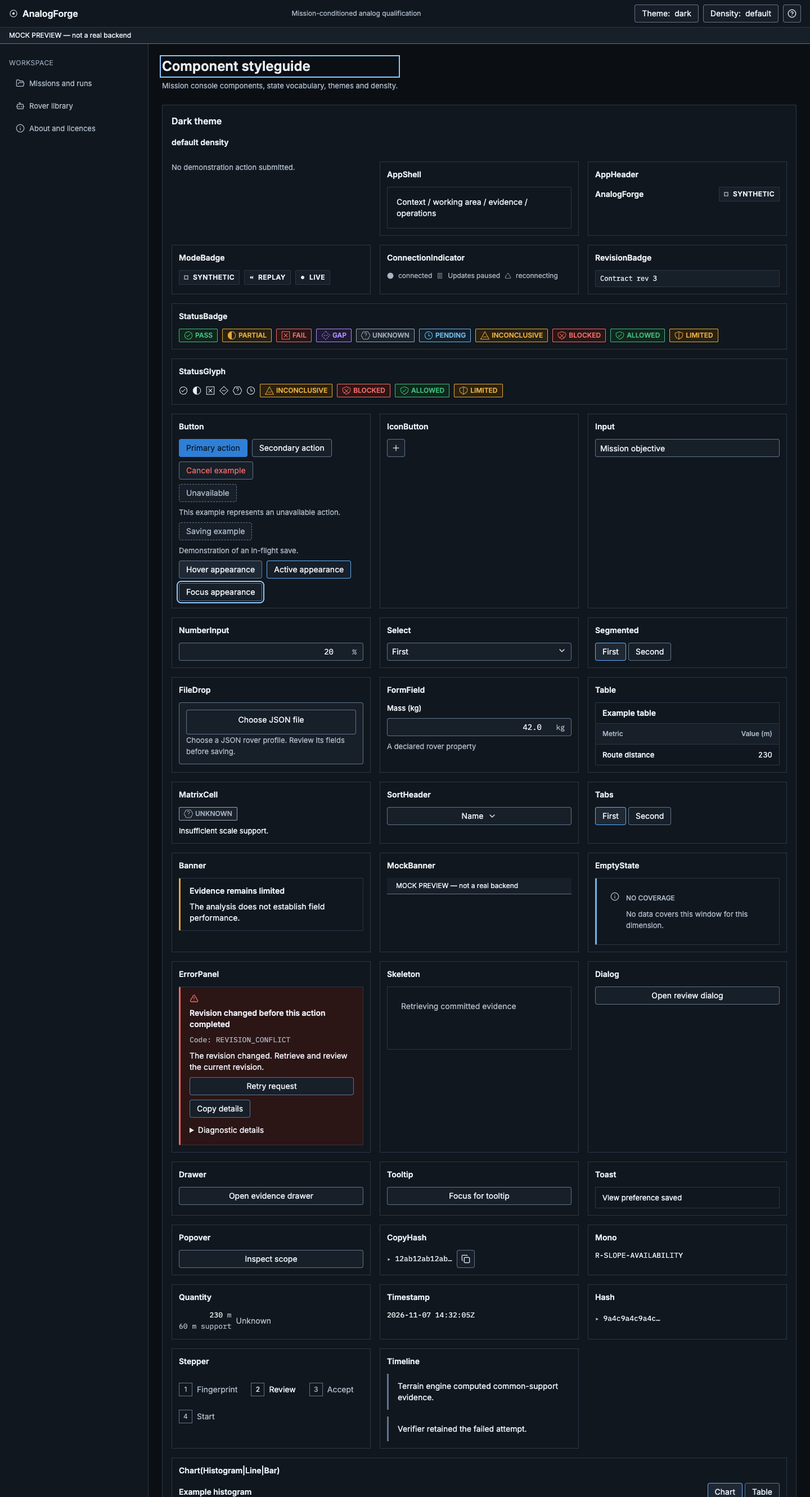
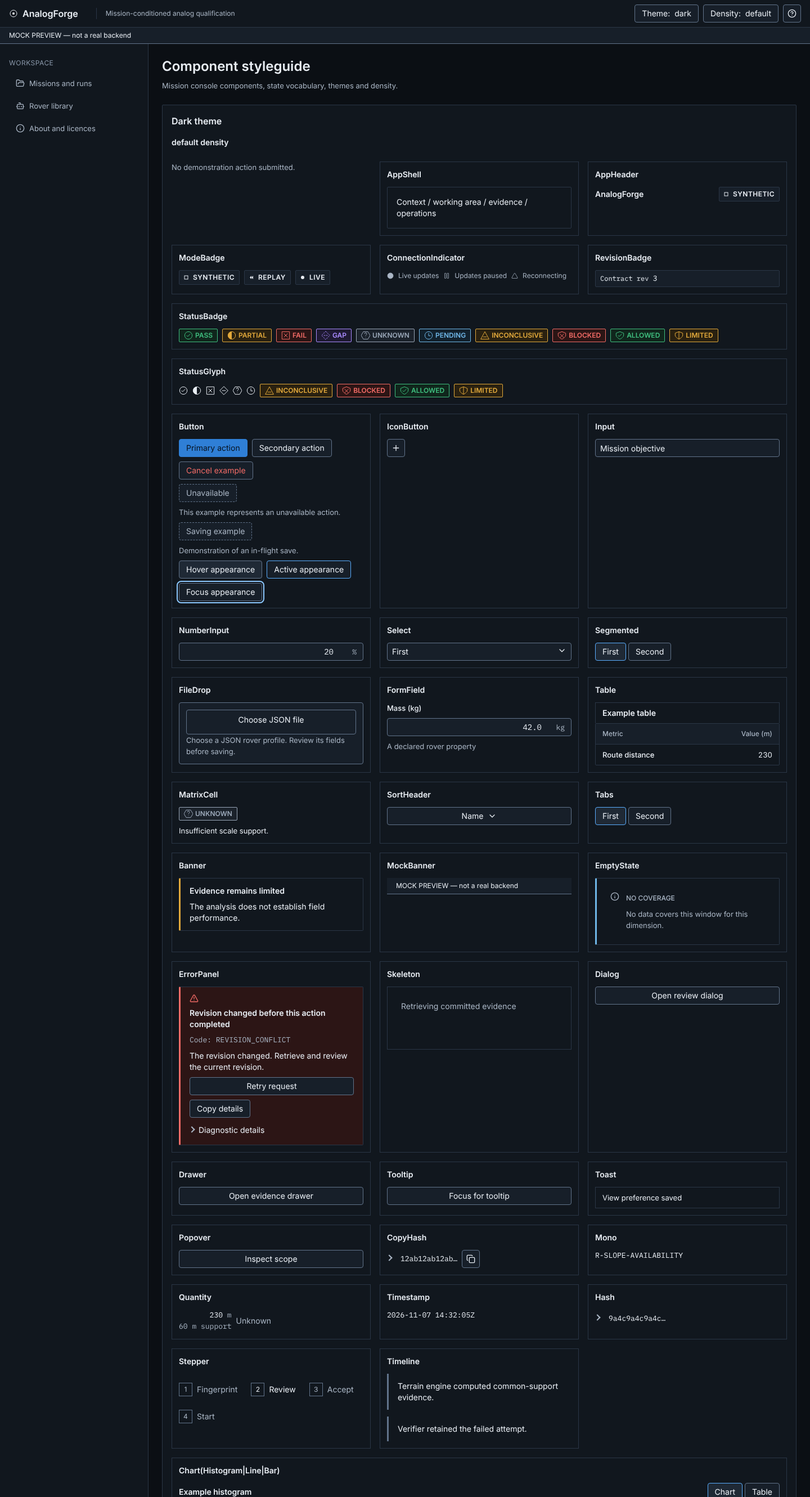
Polish the mission console and harden flaky keyboard journeys
Visual (architecture 41), from a screenshot review of every screen in dark/light at 1440 and 390:
- one thin chevron for every disclosure instead of '+'/'-' text and native triangles
- run header: fixed full-width status row on wide screens (mode, live/final stream, contract rev + digest,
  rover rev, run rev) instead of a half-collapsed details box; it can no longer reflow when the
  connection label changes (fixes a 0.61 CLS on the passport found by the visual audit)
- plain-language connection labels (Live updates, Reconnecting, Resynchronizing, Final - stream closed)
- design-system checkboxes (24 px target, accent fill with check) instead of empty squares
- product line anchored beside the wordmark; no focus box on programmatically focused page titles
- a run blocked by SCIENTIFIC_CLAIM_REJECTED explains itself and offers no retry that cannot succeed
  (BlockedDependencies + unit test); matches the platform rule that RETRY is not allowed for it

Tests:
- J09/J09b: enable file-chooser interception before keyboard activation and assert document focus
  (J09b failed ~50% even alone; now 8/8 repeated)
- test browser launched with --enable-unsafe-swiftshader so this GPU-less Chromium's WebGL deprecation
  notice is not reported as an app console warning (C12)
- view-preference storage in two test helpers carries the allowed marker
- design-review styleguide captures regenerated

Claude-Session: https://claude.ai/code/session_018jitcJWpqyrJB3zq7RUfyU

diff --git a/analogforge/apps/web/src/features/runs/RunShell.tsx b/analogforge/apps/web/src/features/runs/RunShell.tsx
@@ -7,7 +7,7 @@ import { useApi } from '../../api/hooks/useApi';
 import { useRunStream } from '../../api/hooks/useRunStream';
 import { queryKeys } from '../../api/queryKeys';
 import { useWorkspace } from '../../app/WorkspaceContext';
-import { Button,CopyHash,IconButton,ConnectionIndicator,ErrorPanel,ModeBadge,ResultBadge,RevisionBadge,Skeleton,StatusBadge } from '../../components/ui';
+import { Banner,Button,CopyHash,IconButton,ConnectionIndicator,ErrorPanel,ModeBadge,ResultBadge,RevisionBadge,Skeleton,StatusBadge } from '../../components/ui';
 import { EvidenceDrawer } from '../../components/evidence/EvidenceDrawer';
 import { Operations } from '../operations/Operations';
 import { RunContext,type Schema } from './RunContext';
@@ -22,5 +22,9 @@ export function RunShell(){const {runId}=useParams();const workspace=useWorkspac
  if(contextError)return <section className="page-stack"><h1 tabIndex={-1}>Investigation unavailable</h1><ErrorPanel error={contextError} onRetry={()=>{void cache.invalidateQueries({queryKey:queryKeys.workspace(workspace)});}}/></section>;
  // Commit the context together so candidate columns and accepted rows never flash through incomplete geometry.
  if(!snapshot.data||!contract.data||(snapshot.data.candidate_ids.length>0&&!candidates.data)||(snapshot.data.qualification_ids.length>0&&!qualifications.data)||(!!snapshot.data.rover_revision_id&&!rover.data)||(resultIds.length>0&&results.isPending))return <div className="run-loading"><Skeleton label="Retrieving accepted contract, candidates and qualification receipts"/></div>;
- const value=snapshot.data;const orderedResults=[...(results.data??[])].filter(result=>result.run_id===value.run_id&&result.workspace_id===workspace);const latestResult=orderedResults.at(-1);const runActions=<div className="actions run-actions">{!['COMPLETED','CANCELLED','FAILED'].includes(value.state)&&<Button variant="danger" data-testid="btn-cancel-run" disabled={pending} disabledReason="Wait for the current command acknowledgement before cancelling." onClick={()=>{void action({action_type:'CANCEL',expected_revision:value.revision,payload:{}}).catch(()=>undefined);}}>Cancel run</Button>}{value.blocked_dependencies.map(dependency=><Button key={dependency} data-testid="btn-retry-dependency" data-dependency-id={dependency} disabled={pending} disabledReason="The dependency retry command is awaiting acknowledgement." onClick={()=>{void action({action_type:'RETRY',expected_revision:value.revision,payload:{dependency_id:dependency}}).catch(()=>undefined);}}>Retry {dependency}</Button>)}</div>;return <RunContext.Provider value={{snapshot:value,contract:contract.data,candidates:candidates.data?.items??[],qualifications:qualifications.data?.items??[],action,showEvidence:setEvidence,pending}}><div className="run-layout"><section className="run-state" role="status" aria-live="polite" data-testid="run-state-banner" data-state={value.state}><div className="run-lifecycle"><span className="helper">Lifecycle</span><strong>{value.state.toLowerCase().replaceAll('_',' ').replace(/^./,letter=>letter.toUpperCase())}</strong>{wideContext&&<p className="helper">{contract.data.name}</p>}</div><div className="run-science" aria-label="Scientific outcome"><span className="helper">Latest modeled test</span>{latestResult?<ResultBadge outcome={latestResult.outcome}/>:!value.rover_revision_id?<span className="revision-badge">Not run</span>:<StatusBadge status={results.isError?'UNKNOWN':'PENDING'}/>}{wideContext&&<span className="helper">{latestResult?`${orderedResults.length} committed result${orderedResults.length===1?'':'s'}`:!value.rover_revision_id?'Site qualification only · no rover supplied':results.isError?'Result unavailable':resultIds.length?'Retrieving committed result':'No result committed'}</span>}</div><details className="run-metadata" open={wideContext}><summary><ModeBadge mode={value.mode}/><span>Run context</span></summary><div className="header-cluster">{!wideContext&&<p className="helper context-run-description">{contract.data.name} · {latestResult?`${orderedResults.length} committed result${orderedResults.length===1?'':'s'}`:!value.rover_revision_id?'Site qualification only · no rover supplied':results.isError?'Result unavailable':resultIds.length?'Retrieving committed result':'No result committed'}</p>}<ConnectionIndicator connection={connection==='connecting'?'reconnecting':connection}/><span className="run-contract-reference" role="group" aria-label="Pinned contract revision and digest"><RevisionBadge label="Contract" revision={contract.data.revision}/><CopyHash value={contract.data.content_sha256} kind="contract" compact/></span>{rover.data?<RevisionBadge label={`Rover ${rover.data.name}`} revision={rover.data.revision}/>:<span className="revision-badge">No rover supplied</span>}<RevisionBadge label="Run" revision={value.revision}/>{mobileContext&&<p className="helper">Committed event cursor {value.last_event_seq} · {value.mode} evidence</p>}{mobileContext&&runActions}<nav className="run-workspace-links" aria-label="Workspace navigation"><NavLink to="/">Missions</NavLink><NavLink to="/rovers">Rovers</NavLink><NavLink to="/about">About</NavLink></nav></div></details>{!mobileContext&&runActions}{!wideContext&&<div className="run-pinned-identity"><span>{contract.data.name}</span><span>Contract rev {contract.data.revision} · {rover.data?`Rover ${rover.data.name} rev ${rover.data.revision}`:'No rover supplied'} · Run rev {value.revision}</span></div>}</section><div className="run-nav-strip"><span className="run-nav-current">View: <strong>{tab==='test-lab'?'Test lab':tab[0]!.toUpperCase()+tab.slice(1)}</strong></span><IconButton className="run-nav-arrow" label="Scroll to previous investigation views" onClick={()=>{const nav=document.querySelector('.run-tabs');if(nav)nav.scrollBy({left:-nav.clientWidth,behavior:'instant'});}}><ChevronLeft size={16}/></IconButton><nav className="run-tabs" aria-label="Investigation views — scroll horizontally for all tabs">{runTabs.map(name=><NavLink key={name} data-testid="run-nav-tab" data-tab={name} to={`/runs/${runId}/${name}`}>{name==='test-lab'?'Test lab':name[0]!.toUpperCase()+name.slice(1)}</NavLink>)}</nav><IconButton className="run-nav-arrow" label="Scroll to more investigation views" onClick={()=>{const nav=document.querySelector('.run-tabs');if(nav)nav.scrollBy({left:nav.clientWidth,behavior:'instant'});}}><ChevronRight size={16}/></IconButton></div><div className="run-working-area" role="region" aria-label="Investigation working area">{error!=null&&<ErrorPanel error={error} onRetry={()=>{setError(null);void snapshot.refetch();}}/>}<Outlet/></div><div className="operations-bar"><span className="helper">Committed event cursor <span className="mono">{value.last_event_seq}</span> · {value.mode} evidence</span><div className="actions"><div id="run-primary-action" className="run-primary-action" data-region="primary-run-action"/><Button onClick={()=>setOperations(true)}>Open operations</Button><Button disabled={!qualifications.data?.items[0]?.evidence_ids[0]} disabledReason="No qualification evidence receipt has committed yet." onClick={()=>setEvidence(qualifications.data?.items[0]?.evidence_ids[0]??null)}>Open evidence</Button></div></div><EvidenceDrawer id={evidence} onClose={()=>setEvidence(null)} linkedRequirements={(qualifications.data?.items??[]).filter(row=>evidence&&row.evidence_ids.includes(evidence)).map(row=>({requirementId:row.requirement_id,status:row.status}))}/><Operations events={events.filter(event=>event.run_id===value.run_id)} open={operations} onOpenChange={setOperations} onEvidence={setEvidence}/></div></RunContext.Provider>;
+ const value=snapshot.data;const orderedResults=[...(results.data??[])].filter(result=>result.run_id===value.run_id&&result.workspace_id===workspace);const latestResult=orderedResults.at(-1);const runActions=<div className="actions run-actions">{!['COMPLETED','CANCELLED','FAILED'].includes(value.state)&&<Button variant="danger" data-testid="btn-cancel-run" disabled={pending} disabledReason="Wait for the current command acknowledgement before cancelling." onClick={()=>{void action({action_type:'CANCEL',expected_revision:value.revision,payload:{}}).catch(()=>undefined);}}>Cancel run</Button>}<BlockedDependencies dependencies={value.blocked_dependencies} pending={pending} onRetry={dependency=>{void action({action_type:'RETRY',expected_revision:value.revision,payload:{dependency_id:dependency}}).catch(()=>undefined);}}/></div>;return <RunContext.Provider value={{snapshot:value,contract:contract.data,candidates:candidates.data?.items??[],qualifications:qualifications.data?.items??[],action,showEvidence:setEvidence,pending}}><div className="run-layout"><section className="run-state" role="status" aria-live="polite" data-testid="run-state-banner" data-state={value.state}><div className="run-lifecycle"><span className="helper">Lifecycle</span><strong>{value.state.toLowerCase().replaceAll('_',' ').replace(/^./,letter=>letter.toUpperCase())}</strong>{wideContext&&<p className="helper">{contract.data.name}</p>}</div><div className="run-science" aria-label="Scientific outcome"><span className="helper">Latest modeled test</span>{latestResult?<ResultBadge outcome={latestResult.outcome}/>:!value.rover_revision_id?<span className="revision-badge">Not run</span>:<StatusBadge status={results.isError?'UNKNOWN':'PENDING'}/>}{wideContext&&<span className="helper">{latestResult?`${orderedResults.length} committed result${orderedResults.length===1?'':'s'}`:!value.rover_revision_id?'Site qualification only · no rover supplied':results.isError?'Result unavailable':resultIds.length?'Retrieving committed result':'No result committed'}</span>}</div>{wideContext?<div className="run-metadata run-metadata-static" role="group" aria-label="Run context"><div className="header-cluster"><ModeBadge mode={value.mode}/>{!wideContext&&<p className="helper context-run-description">{contract.data.name} · {latestResult?`${orderedResults.length} committed result${orderedResults.length===1?'':'s'}`:!value.rover_revision_id?'Site qualification only · no rover supplied':results.isError?'Result unavailable':resultIds.length?'Retrieving committed result':'No result committed'}</p>}<ConnectionIndicator connection={connection==='connecting'?'reconnecting':connection}/><span className="run-contract-reference" role="group" aria-label="Pinned contract revision and digest"><RevisionBadge label="Contract" revision={contract.data.revision}/><CopyHash value={contract.data.content_sha256} kind="contract" compact/></span>{rover.data?<RevisionBadge label={`Rover ${rover.data.name}`} revision={rover.data.revision}/>:<span className="revision-badge">No rover supplied</span>}<RevisionBadge label="Run" revision={value.revision}/>{mobileContext&&<p className="helper">Committed event cursor {value.last_event_seq} · {value.mode} evidence</p>}{mobileContext&&runActions}<nav className="run-workspace-links" aria-label="Workspace navigation"><NavLink to="/">Missions</NavLink><NavLink to="/rovers">Rovers</NavLink><NavLink to="/about">About</NavLink></nav></div></div>:<details className="run-metadata"><summary><ModeBadge mode={value.mode}/><span>Run context</span></summary><div className="header-cluster">{!wideContext&&<p className="helper context-run-description">{contract.data.name} · {latestResult?`${orderedResults.length} committed result${orderedResults.length===1?'':'s'}`:!value.rover_revision_id?'Site qualification only · no rover supplied':results.isError?'Result unavailable':resultIds.length?'Retrieving committed result':'No result committed'}</p>}<ConnectionIndicator connection={connection==='connecting'?'reconnecting':connection}/><span className="run-contract-reference" role="group" aria-label="Pinned contract revision and digest"><RevisionBadge label="Contract" revision={contract.data.revision}/><CopyHash value={contract.data.content_sha256} kind="contract" compact/></span>{rover.data?<RevisionBadge label={`Rover ${rover.data.name}`} revision={rover.data.revision}/>:<span className="revision-badge">No rover supplied</span>}<RevisionBadge label="Run" revision={value.revision}/>{mobileContext&&<p className="helper">Committed event cursor {value.last_event_seq} · {value.mode} evidence</p>}{mobileContext&&runActions}<nav className="run-workspace-links" aria-label="Workspace navigation"><NavLink to="/">Missions</NavLink><NavLink to="/rovers">Rovers</NavLink><NavLink to="/about">About</NavLink></nav></div></details>}{!mobileContext&&runActions}{!wideContext&&<div className="run-pinned-identity"><span>{contract.data.name}</span><span>Contract rev {contract.data.revision} · {rover.data?`Rover ${rover.data.name} rev ${rover.data.revision}`:'No rover supplied'} · Run rev {value.revision}</span></div>}</section><div className="run-nav-strip"><span className="run-nav-current">View: <strong>{tab==='test-lab'?'Test lab':tab[0]!.toUpperCase()+tab.slice(1)}</strong></span><IconButton className="run-nav-arrow" label="Scroll to previous investigation views" onClick={()=>{const nav=document.querySelector('.run-tabs');if(nav)nav.scrollBy({left:-nav.clientWidth,behavior:'instant'});}}><ChevronLeft size={16}/></IconButton><nav className="run-tabs" aria-label="Investigation views — scroll horizontally for all tabs">{runTabs.map(name=><NavLink key={name} data-testid="run-nav-tab" data-tab={name} to={`/runs/${runId}/${name}`}>{name==='test-lab'?'Test lab':name[0]!.toUpperCase()+name.slice(1)}</NavLink>)}</nav><IconButton className="run-nav-arrow" label="Scroll to more investigation views" onClick={()=>{const nav=document.querySelector('.run-tabs');if(nav)nav.scrollBy({left:nav.clientWidth,behavior:'instant'});}}><ChevronRight size={16}/></IconButton></div><div className="run-working-area" role="region" aria-label="Investigation working area">{error!=null&&<ErrorPanel error={error} onRetry={()=>{setError(null);void snapshot.refetch();}}/>}<Outlet/></div><div className="operations-bar"><span className="helper">Committed event cursor <span className="mono">{value.last_event_seq}</span> · {value.mode} evidence</span><div className="actions"><div id="run-primary-action" className="run-primary-action" data-region="primary-run-action"/><Button onClick={()=>setOperations(true)}>Open operations</Button><Button disabled={!qualifications.data?.items[0]?.evidence_ids[0]} disabledReason="No qualification evidence receipt has committed yet." onClick={()=>setEvidence(qualifications.data?.items[0]?.evidence_ids[0]??null)}>Open evidence</Button></div></div><EvidenceDrawer id={evidence} onClose={()=>setEvidence(null)} linkedRequirements={(qualifications.data?.items??[]).filter(row=>evidence&&row.evidence_ids.includes(evidence)).map(row=>({requirementId:row.requirement_id,status:row.status}))}/><Operations events={events.filter(event=>event.run_id===value.run_id)} open={operations} onOpenChange={setOperations} onEvidence={setEvidence}/></div></RunContext.Provider>;
 }
+
+/** Blocked-run controls: retryable dependencies get a retry button; a refused scientific claim explains itself
+ *  (architecture 33: an audit of the same frozen inputs cannot change, so no retry is offered). */
+export function BlockedDependencies({dependencies,pending,onRetry}:{dependencies:string[];pending:boolean;onRetry:(dependency:string)=>void}){return <>{dependencies.includes('SCIENTIFIC_CLAIM_REJECTED')&&<div className="run-stop-reason" data-stop-reason="SCIENTIFIC_CLAIM_REJECTED"><Banner status="FAIL" title="Stopped: the scientific audit refused an unsupported claim">No passport was published. Retrying cannot change an audit of the same frozen inputs; accept a new contract revision to continue. The refused claims are recorded in operations.</Banner></div>}{dependencies.filter(dependency=>dependency!=='SCIENTIFIC_CLAIM_REJECTED').map(dependency=><Button key={dependency} data-testid="btn-retry-dependency" data-dependency-id={dependency} disabled={pending} disabledReason="The dependency retry command is awaiting acknowledgement." onClick={()=>onRetry(dependency)}>Retry {dependency}</Button>)}</>;}

diff --git a/analogforge/apps/web/src/styles/polish.css b/analogforge/apps/web/src/styles/polish.css
@@ -1,0 +1,38 @@
+/* Mission-console polish (architecture 41): one disclosure glyph, calm run status row, quiet page focus, real checkboxes. */
+
+/* 1. One disclosure glyph everywhere: a thin chevron instead of "+" / "−" / native triangles. */
+summary{list-style:none}
+summary::-webkit-details-marker{display:none}
+summary::before,
+:is(.run-metadata,.candidate-state-details,.practice-presets)>summary::before,
+.hash-disclosure summary::before{content:'';display:inline-block;flex:0 0 8px;width:8px;height:8px;margin:0 8px 0 0;border-right:2px solid var(--text-secondary);border-bottom:2px solid var(--text-secondary);transform:translateY(-2px) rotate(-45deg);transition:transform var(--dur-fast) var(--ease);vertical-align:middle}
+details[open]>summary::before,
+:is(.run-metadata,.candidate-state-details,.practice-presets)[open]>summary::before,
+.hash-disclosure[open] summary::before{content:'';transform:translateY(-4px) rotate(45deg)}
+summary:hover::before{border-color:var(--text-primary)}
+
+/* 2. Route changes move focus to the page heading for screen readers; that programmatic focus is not a visible control. */
+h1[tabindex="-1"]:focus,h1[tabindex="-1"]:focus-visible{outline:none}
+
+/* 3. Run status row on wide screens: fixed, aligned, no disclosure chrome. */
+.run-metadata-static{min-width:0;max-width:100%;flex:1 0 100%} /* own line: label width changes (Live updates / resyncing / Final) must never reflow the header (C11) */
+.run-metadata-static>.header-cluster{display:flex;flex-wrap:wrap;align-items:center;gap:8px;margin:0}
+.run-state{border-left-width:3px}
+
+/* 4. Checkboxes drawn by the design system (24 px target, 2 px radius, accent fill + check when on). */
+input[type=checkbox]{appearance:none;display:inline-grid;place-content:center;width:24px;height:24px;border:1px solid var(--border-strong);border-radius:var(--radius-1);background:var(--surface-2);cursor:pointer;padding:0}
+input[type=checkbox]:hover{border-color:var(--text-secondary)}
+input[type=checkbox]:checked{background:var(--accent-strong);border-color:var(--accent-strong)}
+input[type=checkbox]:checked::before{content:'';width:12px;height:6px;border-left:2px solid var(--on-accent);border-bottom:2px solid var(--on-accent);transform:translateY(-2px) rotate(-45deg)}
+input[type=checkbox]:disabled{border-style:dashed;cursor:not-allowed}
+@media(pointer:coarse){input[type=checkbox]{width:44px;height:44px}}
+
+/* 5. Header: product line anchored beside the wordmark, controls to the right. */
+.app-header{justify-content:flex-start}
+.app-header>.header-context{margin-left:16px;padding-left:16px;border-left:1px solid var(--border-subtle)}
+.app-header>.header-cluster{margin-left:auto}
+
+@media print{summary::before{display:none!important}}
+
+/* 6. A run stopped by a refused claim explains itself instead of offering a retry that cannot succeed. */
+.run-stop-reason{flex-basis:100%;max-width:72ch}

diff --git a/analogforge/apps/web/src/components/ui/index.tsx b/analogforge/apps/web/src/components/ui/index.tsx
@@ -88,7 +88,8 @@ export function CopyHash({value,kind='evidence',testid,format,compact=false}:{va
   return <span className="hash-group"><Hash value={value} testid={testid} format={format} compact={compact}/><IconButton label={copied?copiedLabel:copyLabel} data-testid="copy-hash" data-hash-kind={kind} onClick={()=>{void copy();}}><Copy size={16}/></IconButton><span className={unavailable?'helper':'sr-only'} role="status">{unavailable?'Clipboard unavailable. Select and copy the full digest.':copied?copiedLabel:''}</span></span>;
 }
 export function RevisionBadge({label,revision}:{label:string;revision:number|string}) { return <span className="revision-badge">{label} rev <Mono>{revision}</Mono></span>; }
-export function ConnectionIndicator({connection}:{connection:string}) {const Glyph=connection==='connected'?Circle:connection==='paused'?Pause:Triangle;return <span className="connection" data-testid="connection-indicator" data-connection={connection}><Glyph size={12} strokeWidth={1.5} fill={connection==='connected'?'currentColor':'none'} aria-hidden="true"/>{connection==='paused'?'Updates paused':connection}</span>;}
+export function ConnectionIndicator({connection}:{connection:string}) {const Glyph=connection==='connected'?Circle:connection==='paused'?Pause:Triangle;return <span className="connection" data-testid="connection-indicator" data-connection={connection}><Glyph size={12} strokeWidth={1.5} fill={connection==='connected'?'currentColor':'none'} aria-hidden="true"/>{connectionLabels[connection]??connection}</span>;}
+const connectionLabels:Record<string,string>={connected:'Live updates',reconnecting:'Reconnecting',offline:'Offline',closed:'Final · stream closed',paused:'Updates paused',resyncing:'Resynchronizing'};
 
 export function Dialog({title,description,trigger,children,open,onOpenChange,testid}:{title:string;description?:string;trigger?:ReactNode;children:ReactNode;open?:boolean;onOpenChange?:(open:boolean)=>void;testid?:string}) {
   const opener=useRef<HTMLElement|null>(null);const wasOpen=useRef(false);if(open&&!wasOpen.current)opener.current=document.activeElement as HTMLElement|null;wasOpen.current=!!open;

diff --git a/analogforge/tests/e2e/support/journeyChecks.ts b/analogforge/tests/e2e/support/journeyChecks.ts
@@ -82,6 +82,9 @@ export async function pressControl(page: Page, target: Locator) {
 }
 
 export async function keyboardMission(page: Page) {
+  // Enable native file-chooser interception before any keyboard activation; it is switched on lazily by the first
+  // listener, and a late switch lets the real dialog open and block the page (observed ~50% at 200 % zoom).
+  page.on('filechooser', () => undefined);
   await page.goto('/');
   await pressControl(page, page.getByTestId('btn-new-mission'));
   await tabTo(page, page.getByTestId('input-mission-name'));
@@ -95,6 +98,10 @@ export async function keyboardMission(page: Page) {
   await expect(page.locator('[data-testid=input-bbox][data-edge=min_lon]')).toHaveValue('137');
   await expect(page.locator('[data-testid=save-indicator][data-save-state=saved]')).toBeVisible();
   await tabTo(page, page.getByTestId('file-rover-import'));
+  // A keyboard-opened native file picker needs a focused document; earlier contexts in the same worker can leave it unfocused.
+  await page.bringToFront();
+  await expect.poll(() => page.evaluate(() => document.hasFocus())).toBe(true);
+  await expect(page.getByTestId('file-rover-import')).toBeFocused();
   const choosing = page.waitForEvent('filechooser');
   await page.keyboard.press('Space');
   await (await choosing).setFiles(fixture('rovers/ares-1.json'));

diff --git a/analogforge/apps/web/playwright.config.ts b/analogforge/apps/web/playwright.config.ts
@@ -8,7 +8,7 @@ const mock = process.env.E2E_TARGET === 'mock';
 export default defineConfig({
  testDir: '../../tests/e2e', timeout: 90000, expect: { timeout: 15000 }, fullyParallel: false, workers: 1,
  reporter: [['list'], ['json', { outputFile: `../../out/e2e-results-${process.env.E2E_RUN_NAME || 'default'}.json` }]],
- use: { actionTimeout: 15000, navigationTimeout: 30000, baseURL, viewport: { width: 1440, height: 900 }, acceptDownloads: true, trace: /^(visual|M\d)/.test(process.env.E2E_RUN_NAME||'') ? 'off' : 'retain-on-failure', screenshot: 'only-on-failure', launchOptions: { executablePath: executable, args: ['--no-sandbox'] } },
+ use: { actionTimeout: 15000, navigationTimeout: 30000, baseURL, viewport: { width: 1440, height: 900 }, acceptDownloads: true, trace: /^(visual|M\d)/.test(process.env.E2E_RUN_NAME||'') ? 'off' : 'retain-on-failure', screenshot: 'only-on-failure', launchOptions: { executablePath: executable, args: ['--no-sandbox', '--enable-unsafe-swiftshader'] } },
  webServer: mock ? { command: 'pnpm run dev:mock', url: baseURL, reuseExistingServer: !process.env.CI, timeout: 30000 } : undefined,
  outputDir: `../../out/playwright-${process.env.E2E_RUN_NAME || 'default'}`,
 });

diff --git a/analogforge/apps/web/src/features/runs/BlockedDependencies.test.tsx b/analogforge/apps/web/src/features/runs/BlockedDependencies.test.tsx
@@ -1,0 +1,21 @@
+import { render, screen } from '@testing-library/react';
+import userEvent from '@testing-library/user-event';
+import { describe, expect, it, vi } from 'vitest';
+import { BlockedDependencies } from './RunShell';
+
+describe('BlockedDependencies', () => {
+  it('offers a retry for a retryable dependency', async () => {
+    const onRetry = vi.fn();
+    render(<BlockedDependencies dependencies={['NO_COVERAGE']} pending={false} onRetry={onRetry} />);
+    await userEvent.click(screen.getByTestId('btn-retry-dependency'));
+    expect(onRetry).toHaveBeenCalledWith('NO_COVERAGE');
+  });
+
+  it('explains a refused scientific claim and offers no retry', () => {
+    const { container } = render(<BlockedDependencies dependencies={['SCIENTIFIC_CLAIM_REJECTED']} pending={false} onRetry={vi.fn()} />);
+    expect(screen.queryByTestId('btn-retry-dependency')).toBeNull();
+    expect(container.querySelector('[data-stop-reason=SCIENTIFIC_CLAIM_REJECTED]')).not.toBeNull();
+    expect(screen.getByText(/scientific audit refused an unsupported claim/)).toBeTruthy();
+    expect(screen.getByText(/No passport was published/)).toBeTruthy();
+  });
+});

diff --git a/analogforge/tests/e2e/contract-edges.spec.ts b/analogforge/tests/e2e/contract-edges.spec.ts
@@ -45,7 +45,7 @@ test('editing an existing rover creates a new immutable revision with the frozen
 test('job success keeps run settings locked until the proposed contract arrives',async({page})=>{
  await page.setViewportSize({width:390,height:844});
  await page.addInitScript(()=>{
-  localStorage.setItem('af.theme','light');
+  localStorage.setItem('af.theme','light'); // allowed: view-preference
   const state={requested:false,release:()=>{}};
   const pending=new Promise<void>(resolve=>{state.release=resolve;});
   Object.assign(window,{__proposalGate:state});

diff --git a/analogforge/apps/web/src/main.tsx b/analogforge/apps/web/src/main.tsx
@@ -13,6 +13,7 @@ import './styles/review-maps.css';
 import './styles/review-evidence.css';
 import './styles/authoring.css';
 import './styles/print.css';
+import './styles/polish.css';
 async function boot() {
   if (import.meta.env.VITE_API_MOCK === '1') {
     const { startMock } = await import('./mock/server');
